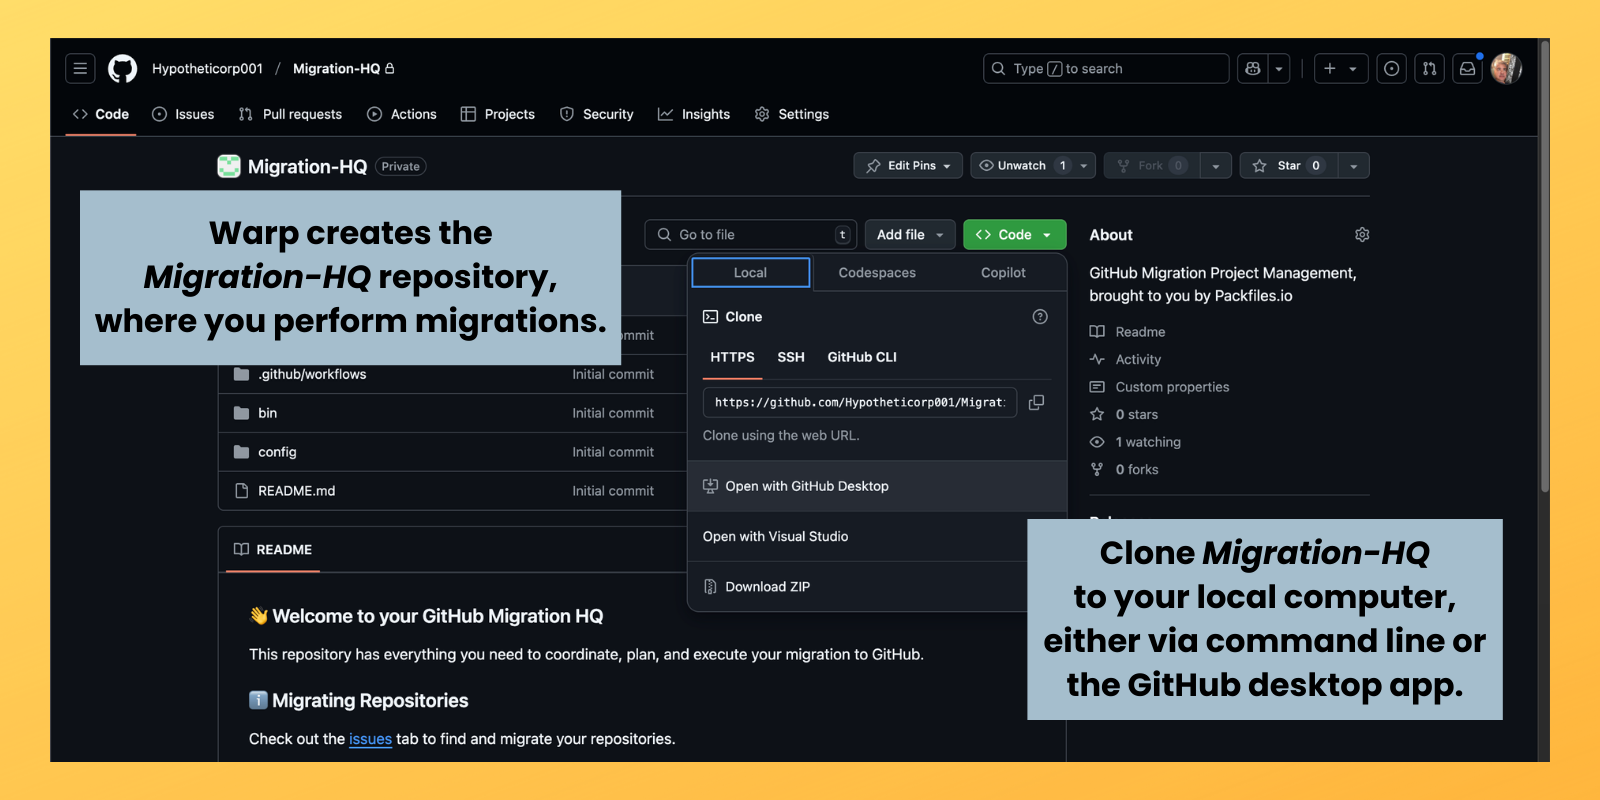
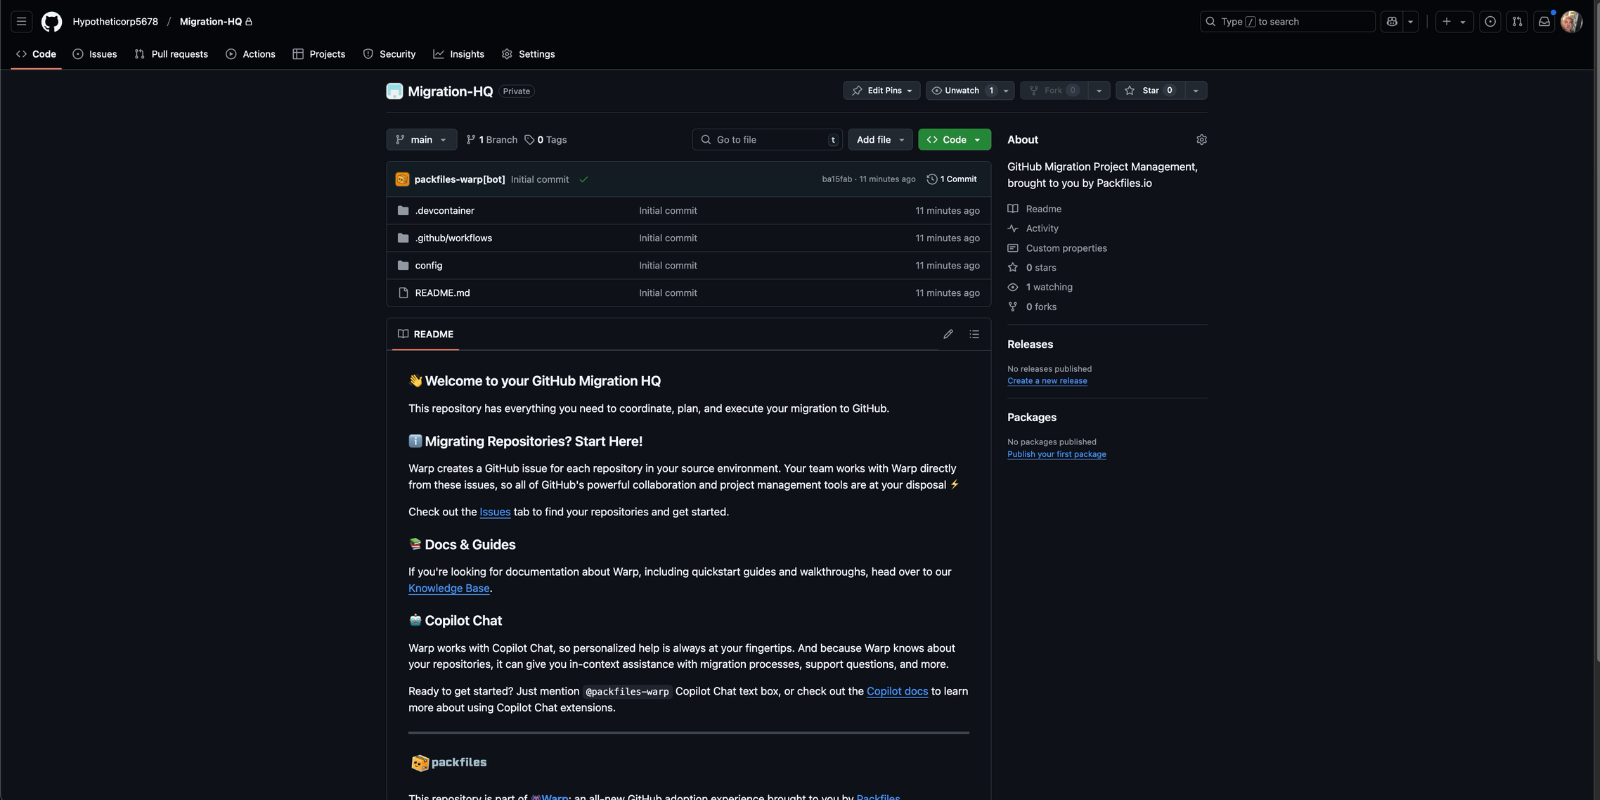
Update "Create a New Project" section

diff --git a/content/getting-started/quickstart.md b/content/getting-started/quickstart.md
@@ -102,7 +102,7 @@ The next step is to create a **_Project_**, which in Warp is an object for manag
 
 You’ll use the Warp web application to create the project.
 
-<img src="/content/media/images/quickstart/new_project/warp_sign_in_page.png" alt="Warp 'Sign In' page" />
+<img src="/content/media/images/quickstart/new_project/warp_sign_in_page.png" alt="Warp 'Sign In' page. An arrow instructs the reader to click on the 'Sign in with GitHub' button." />
 
 🛠 Open a browser tab or window to the [Warp web application](https://warp.packfiles.io) at [warp.packfiles.io](https://warp.packfiles.io). 
 
@@ -110,19 +110,15 @@ You’ll use the Warp web application to create the project.
 
 You will be taken to the _Projects_ page, which lists the current migration projects. At the bottom of the list of projects, you’ll see the **Create a New Project** link.
 
-<img src="/content/media/images/quickstart/new_project/warp_click_create_new_project_link.png" alt="Warp 'Projects' page" />
+<img src="/content/media/images/quickstart/new_project/warp_click_create_new_project_link.png" alt="Warp 'Projects' page. An arrow instructs the reader to click the 'Create a New Project' link." />
 
-🛠 Click the the **Create a New Project** link.
+🛠 Click the the **Create a New Project** link. 
 
-This will open a new browser tab or window to the GitHub page for installing the Warp GitHub app.
+A new section will appear below the link. This section provides instructions for what to do next, which is to install the Warp GitHub app into the GitHub organization where you will migrate your repositories.
 
-<img src="/content/media/images/quickstart/new_project/github_two_factor_authentication.png" alt="GitHub 'Packfiles requires two-factor authentication' page" />
+<img src="/content/media/images/quickstart/new_project/warp_click_install_warp_button.png" alt="GitHub 'Packfiles requires two-factor authentication' page" />
 
-If you are asked to enable two-factor authentication, follow the instructions to do so.
-
-<img src="/content/media/images/quickstart/new_project/github_sso.png" alt="GitHub 'Single sign-on to Packfiles Inc' page" />
-
-If you are presented with the _Single sign-on to Packfiles Inc_ page, click the **Continue** button and sign in using your GitHub account.
+🛠 Click the the **Install Warp from the GitHub Marketplace** link. 
 
 You will arrive at the page for the Warp GitHub app:
 
@@ -130,11 +126,11 @@ You will arrive at the page for the Warp GitHub app:
 
 🛠 Click the **Configure** button to install Warp.
 
-You will be shown a list of user and organization accounts that you can install Warp for:
+You will be shown a list of user and organization accounts where you can install Warp:
 
 <img src="/content/media/images/quickstart/new_project/github_install_packfiles_warp_select_org.png" alt="GitHub 'Install Packfiles Warp' page" />
 
-🛠 Select the organization account where Warp will be installed. This should be the organization where you’ll migrate the repositories _to_. The example organization used in this Quickstart is called **Hypotheticorp001**.
+🛠 Select the organization account where Warp will be installed. This should be the organization where you’ll migrate the repositories _to_. In this example, the organization is **Hypotheticorp5678**.
 
 After you select the organization, you will go to a page showing which repositories the Warp GitHub app will have access to (all of them) and what it will have read, write, and admin access to.
 
@@ -142,15 +138,11 @@ After you select the organization, you will go to a page showing which repositor
 
 🛠 Click the **Install** button.
 
-<img src="/content/media/images/quickstart/new_project/github_authenticator.png" alt="GitHub 'Confirm access' page" />
-
-If you are taken to the _Confirm access_ page, use your authenticator app or browser extension to authenticate youself with GitHub.
+You should automatically return to the _Projects_ page in the Warp web application:
 
 <img src="/content/media/images/quickstart/new_project/warp_projects_page_reload.png" alt="Warp 'Projects' page, with instructions to reload" />
 
-You should be automatically return to the Warp web application.
-
-🛠 If the page that appears is Warp’s _Projects_ page, click your browser’s **Reload** button.
+🛠 Click your browser’s **Reload** button.
 
 You should arrive at the _Welcome to Warp_ page:
 
@@ -158,23 +150,32 @@ You should arrive at the _Welcome to Warp_ page:
 
 🛠 Click the **Next** button.
 
-This will take to you the _Configure Your Project_ page, where you can add other people to the project. For the time being, you can skip this step. You don’t have to add yourself to the team; you are already a member of the project with _Admin_ access.
+This will take to you the _Configure Your Project_ page. You can do two things on this page:
+
+1. You can set the name of your project, or choose to keep the default name.
+2. You can invite people on your team to become members of the project.
 
 <img src="/content/media/images/quickstart/new_project/warp_configure_your_project.png" alt="Warp 'Configure Your Project' page" />
 
-🛠 Click the **Next** button.
+🛠 For this quickstart, simply click the **Next** button. 
+
+ℹ&emsp;As the creator of the project, you don’t have to add yourself to the team. You are already a member of the project with _Admin_ access.
 
 The next page to appear is the _Connect Your Sources_ page. You’ll use it in the process of connecting your Azure DevOps and GitHub accounts to Warp.
 
 <img src="/content/media/images/quickstart/new_project/warp_connect_your_sources.png" alt="Warp Sign In page" />
 
-🛠 Click the **Migration HQ** button.
+When you created the project, Warp created a repository named  _Migration HQ_ for the GitHub organization that you selected earlier. This repository will be the user interface for managing your migrations. 
 
-You will be taken to the page for the _Migration HQ_ repository that Warp just created for your GitHub organization. This repository will be your user interface for managing the migration process. 
+Your next task is to clone the repository to your local computer. You will then create a file containing your authorizations to access both your Azure DevOps organization and GitHub account, which Warp will use to migrate your repositories. Warp will then add that file to the local repository and push it to _Migration HQ_.
+
+🛠 Let’s visit _Migration HQ_. Click the **Migration HQ** button.
+
+You will be taken to the _Migration HQ_ page:
 
 <img src="/content/media/images/quickstart/new_project/github_migration-hq_initial.png" alt="Warp Sign In page" />
 
-🛠 Clone the _Migration HQ_ repository to your local computer, either via the command line, as shown above, using the GitHub desktop app.
+🛠 Clone the _Migration HQ_ repository to your local computer.
 
 
 ## 3. Generate Personal Access Tokens (PATs)
